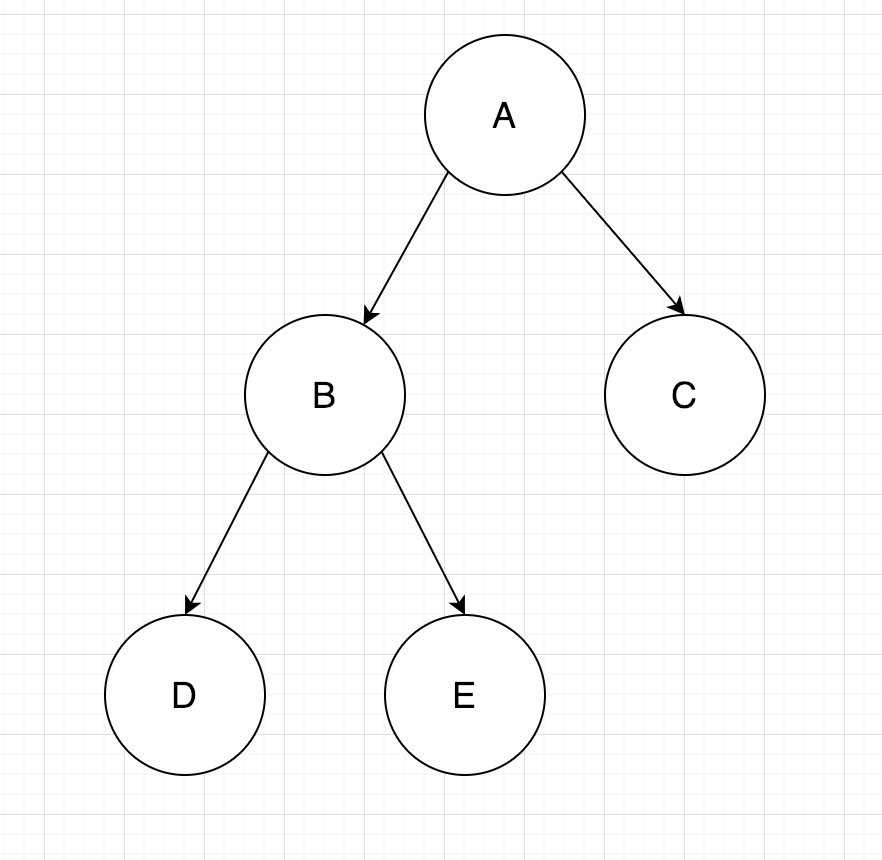
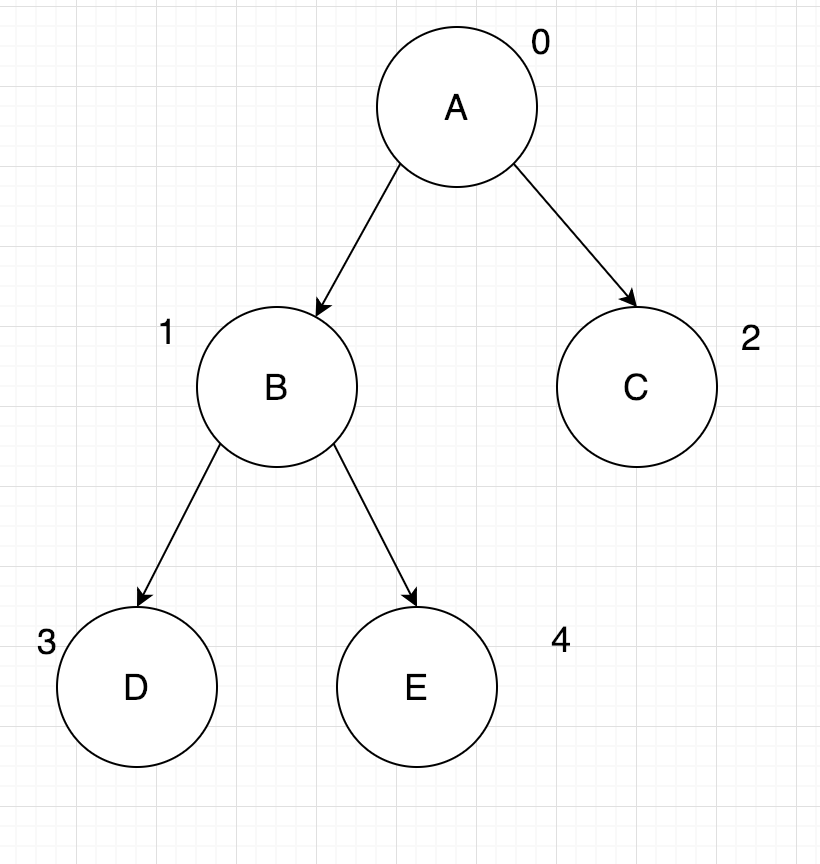
create amx heap

diff --git a/算法.md b/算法.md
@@ -649,6 +649,96 @@ https://www.jianshu.com/p/21bef3fc3030
 
 ![wanquanerchashu](./image/algorithm/完全二叉树.png)
 
+这里，我们底层使用数组来存储堆中的元素。且由于其是满二叉树，因此其父子节点的index具有如下性质：
+
+假设父节点位置为index，那么左子节点的left_index=index*2+1，右子节点的right_idex=index*2+2。
+
+这里数组我们使用java提供的ArrayList来实现。
+
+首先是建堆的过程，注意我们建堆的逻辑都是将新元素添加到数组的末尾，然后进行上浮（siftUp）操作直至满足最大堆的性质，代码如下：
+
+```java
+package com.audi.heap;
+
+import java.util.ArrayList;
+
+/**
+ * 最大堆
+ *
+ * @param <E>
+ */
+public class MaxHeap<E extends Comparable<E>> {
+
+    private ArrayList<E> data;
+
+    public MaxHeap(int capacity) {
+        data = new ArrayList<>(capacity);
+    }
+
+    public MaxHeap() {
+        data = new ArrayList<>();
+    }
+
+    // 返回堆中的元素个数
+    public int size() {
+        return data.size();
+    }
+
+    // 返回一个布尔值, 表示堆中是否为空
+    public boolean isEmpty() {
+        return data.isEmpty();
+    }
+
+    // 返回完全二叉树的数组表示中，一个索引所表示的元素的父亲节点的索引
+    private int parent(int index) {
+        if (index == 0)
+            throw new IllegalArgumentException("index-0 doesn't have parent.");
+        return (index - 1) / 2;
+    }
+
+    // 返回完全二叉树的数组表示中，一个索引所表示的元素的左孩子节点的索引
+    private int leftChild(int index) {
+        return index * 2 + 1;
+    }
+
+    // 返回完全二叉树的数组表示中，一个索引所表示的元素的右孩子节点的索引
+    private int rightChild(int index) {
+        return index * 2 + 2;
+    }
+
+    // 向堆中添加元素
+    public void add(E e) {
+        data.add(e);
+        siftUp(data.size() - 1);
+    }
+
+    private void siftUp(int k) {
+
+        while (k > 0 && data.get(parent(k)).compareTo(data.get(k)) < 0) {
+            swap(data, k, parent(k));
+            k = parent(k);
+        }
+    }
+
+    /**
+     * 交换data数组的i j位置的元素
+     *
+     * @param data
+     * @param i
+     * @param j
+     */
+    private void swap(ArrayList<E> data, int i, int j) {
+        if (i > data.size() - 1 || j > data.size() - 1) {
+            return;
+        }
+        E temp = data.get(i);
+        data.set(i, data.get(j));
+        data.set(j, temp);
+    }
+}
+```
+
+
 
  
   [1]: https://github.com/Audi-A7/learn/blob/master/image/interview/0-1%EF%BC%880%EF%BC%89.jpg?raw=true
